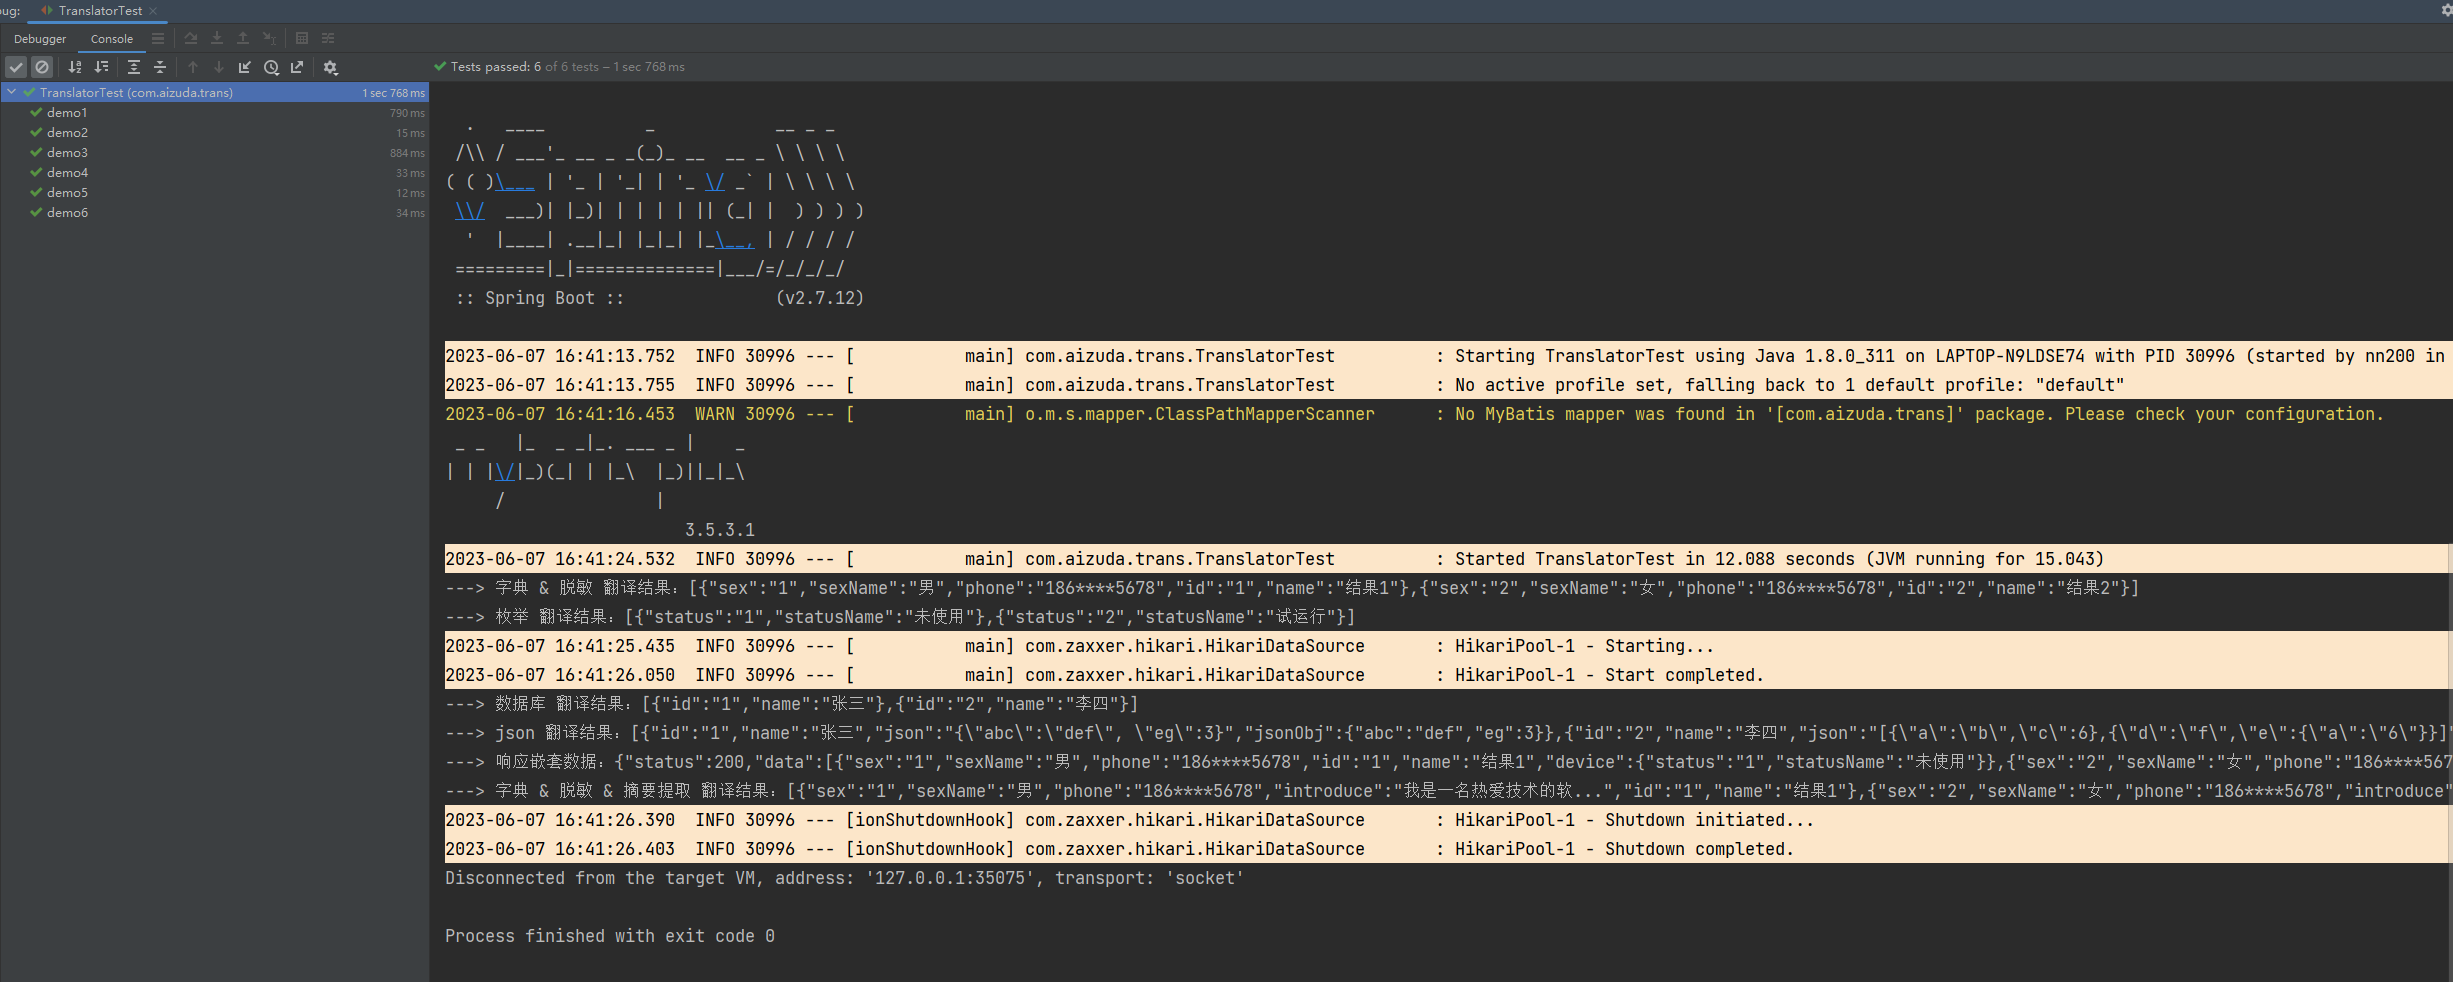
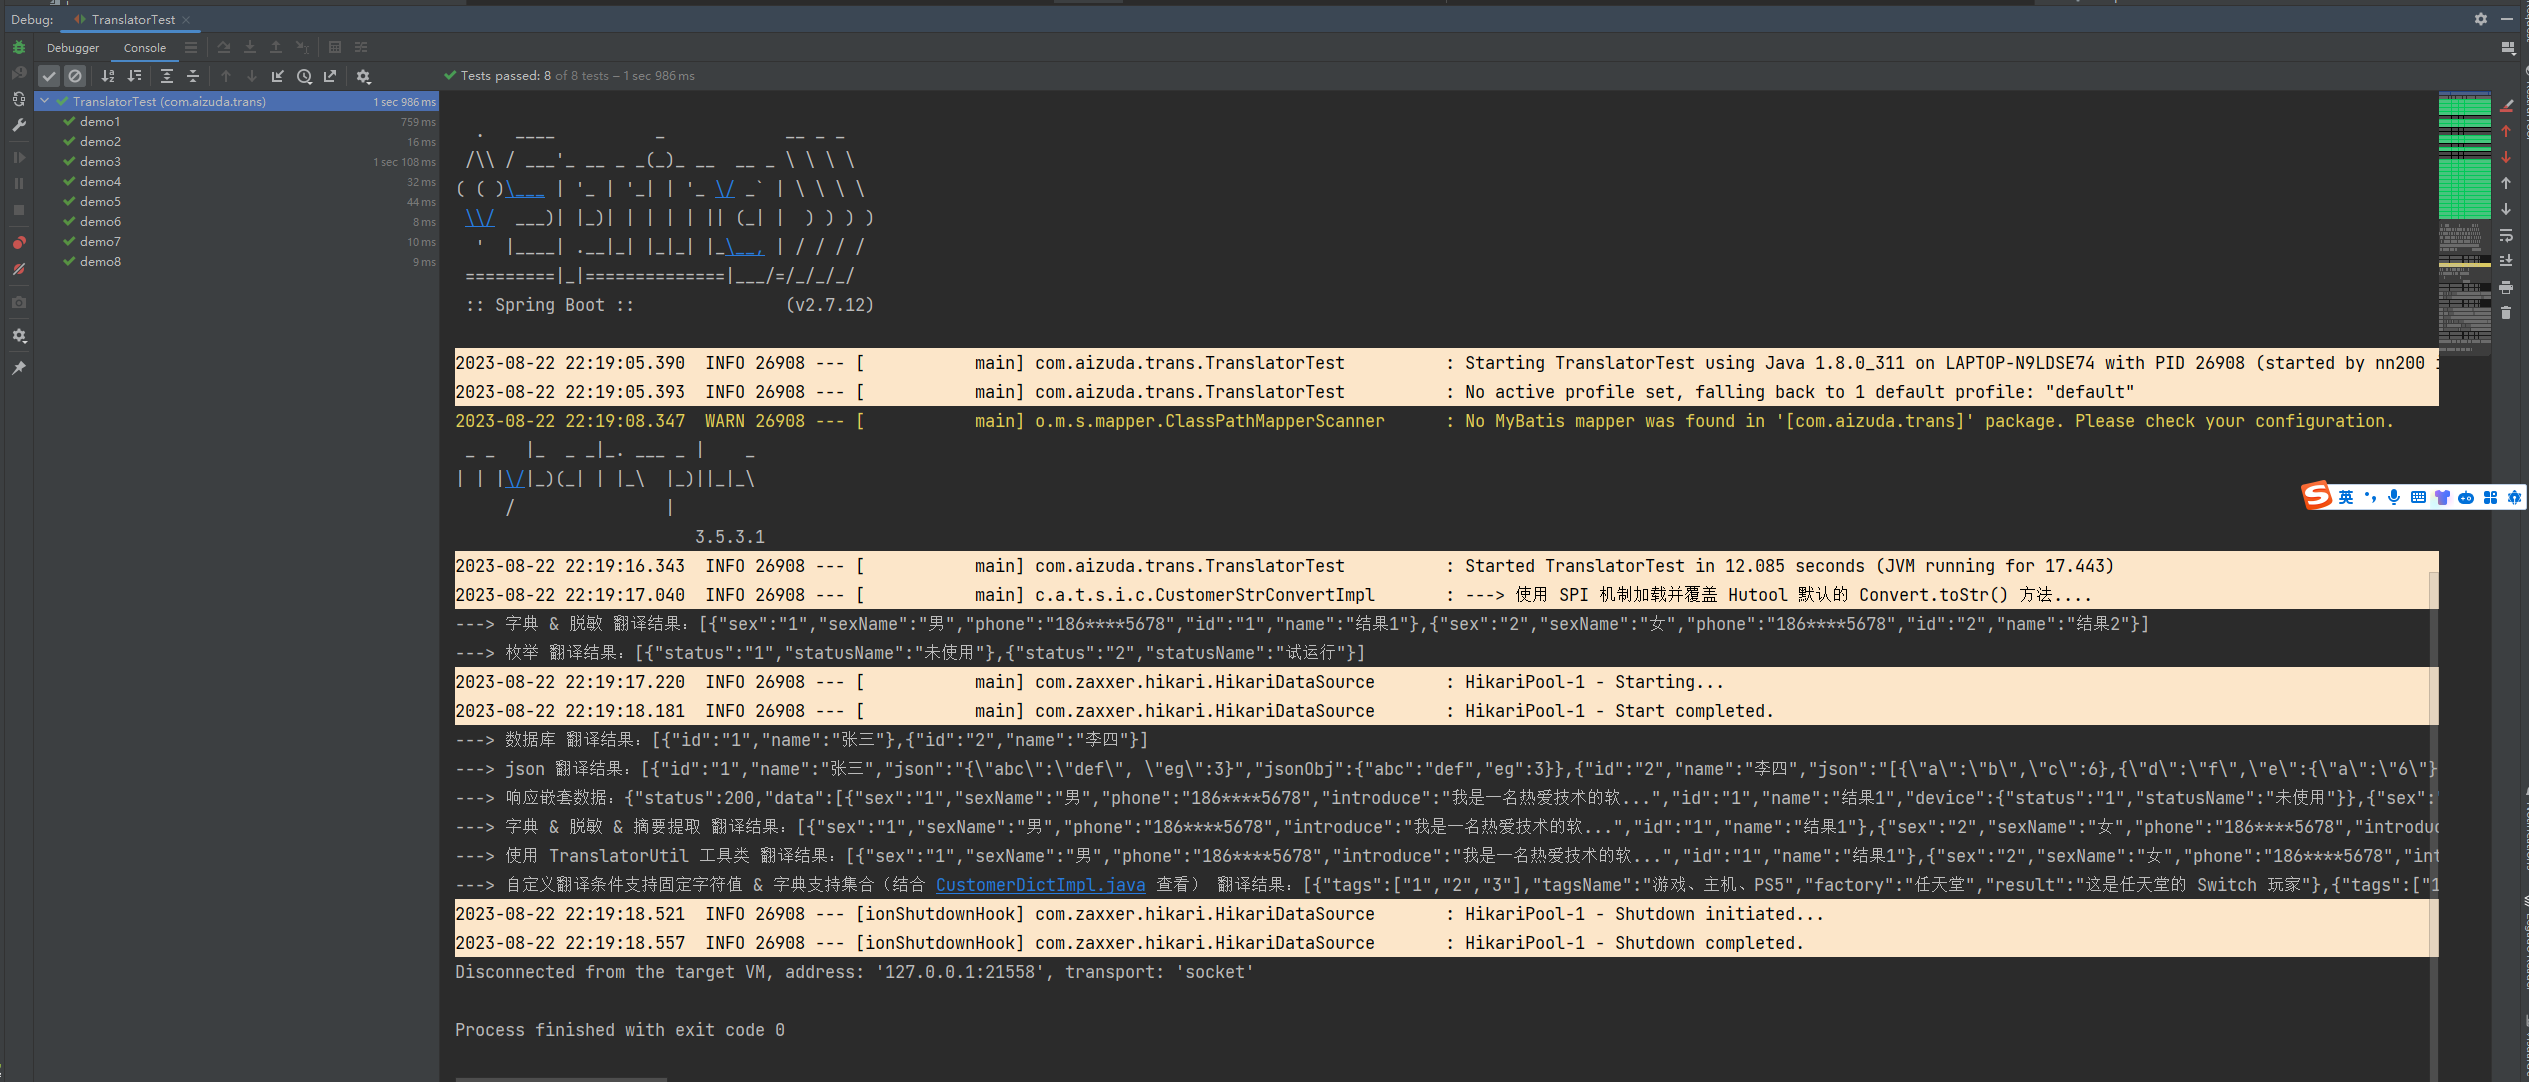
[文档修改](dev): 更新文档

diff --git a/README.md b/README.md
@@ -107,8 +107,12 @@ dict-trans
  │                           │   └── TranslatorConfig.java                                默认翻译方法注入配置
  │                           ├── handler                                                  主要操作类
  │                           │   └── TranslatorHandle.java
+ │                           ├── util                                                     工具库
+ │                           │   └── TranslatorUtil.java                                  提供翻译工具类（免写 @Translator 注解）
  │                           └── service
  │                               ├── impl
+ │                               │   ├── convert
+ │                               │   │   └── CustomerStrConvertImpl.java                  改动 Hutool 的字符串转换类
  │                               │   ├── DataBaseTranslator.java                          数据库翻译服务
  │                               │   ├── DefaultDictTranslateServiceImpl.java             默认数据字典翻译实现（实现字典翻译接口。仿照该方法，实现自己的业务）
  │                               │   ├── DesensitizedTranslator.java                      脱敏实现（没啥操作，就返回原值）
@@ -144,14 +148,14 @@ dict-trans
   <dependency>
     <groupId>com.aizuda</groupId>
     <artifactId>dict-trans</artifactId>
-    <version>0.4</version>
+    <version>0.5</version>
   </dependency>
   
   <!-- hutool工具类（必须） -->
   <dependency>
     <groupId>cn.hutool</groupId>
     <artifactId>hutool-all</artifactId>
-    <version>5.8.18</version>
+    <version>5.8.21</version>
   </dependency>
   
   <!-- mybatis-plus 工具（必须） -->
@@ -267,7 +271,7 @@ public class People {
 * translateField：翻译后的属性名，注意使用驼峰命名，默认为原属性名去除末尾的 "Id" 和 "Code" 再接上 "Name"；
 * groupValue：组属性值，在静态字典表这种拥有组属性的字典中需要手动传入一个定值（即：字典分组的 code）；
 * dictionary：指定 `Dictionary` 并设置其属性，将覆盖 `dictClass` 上的 `Dictionary` 注解的配置，指定了该属性后也可不指定 `dictClass` ，一般情况下不会使用；
-* conditionField：指定判断条件字段（仅自定义翻译实现时用来进行判断）;
+* conditionField：指定判断条件字段（仅自定义翻译实现时用来进行判断）『20230822更新后支持固定值，格式：V:<值>』;
 * desensitizedModel：脱敏模型，用来给数据脱敏打 `*` 使用。常见模型在 `DesensitizedTypeConstants` 常量中。也可自定义，格式：`{含开始位置,含结束位置}` ，举例：`{1,2}` ；
 
   *注：字段自身脱敏时，需将 `dictClass` 设置为 `Desensitized.class`（此时字段仅返回原值后脱敏。可与翻译共用，那样先翻译后脱敏。）*
